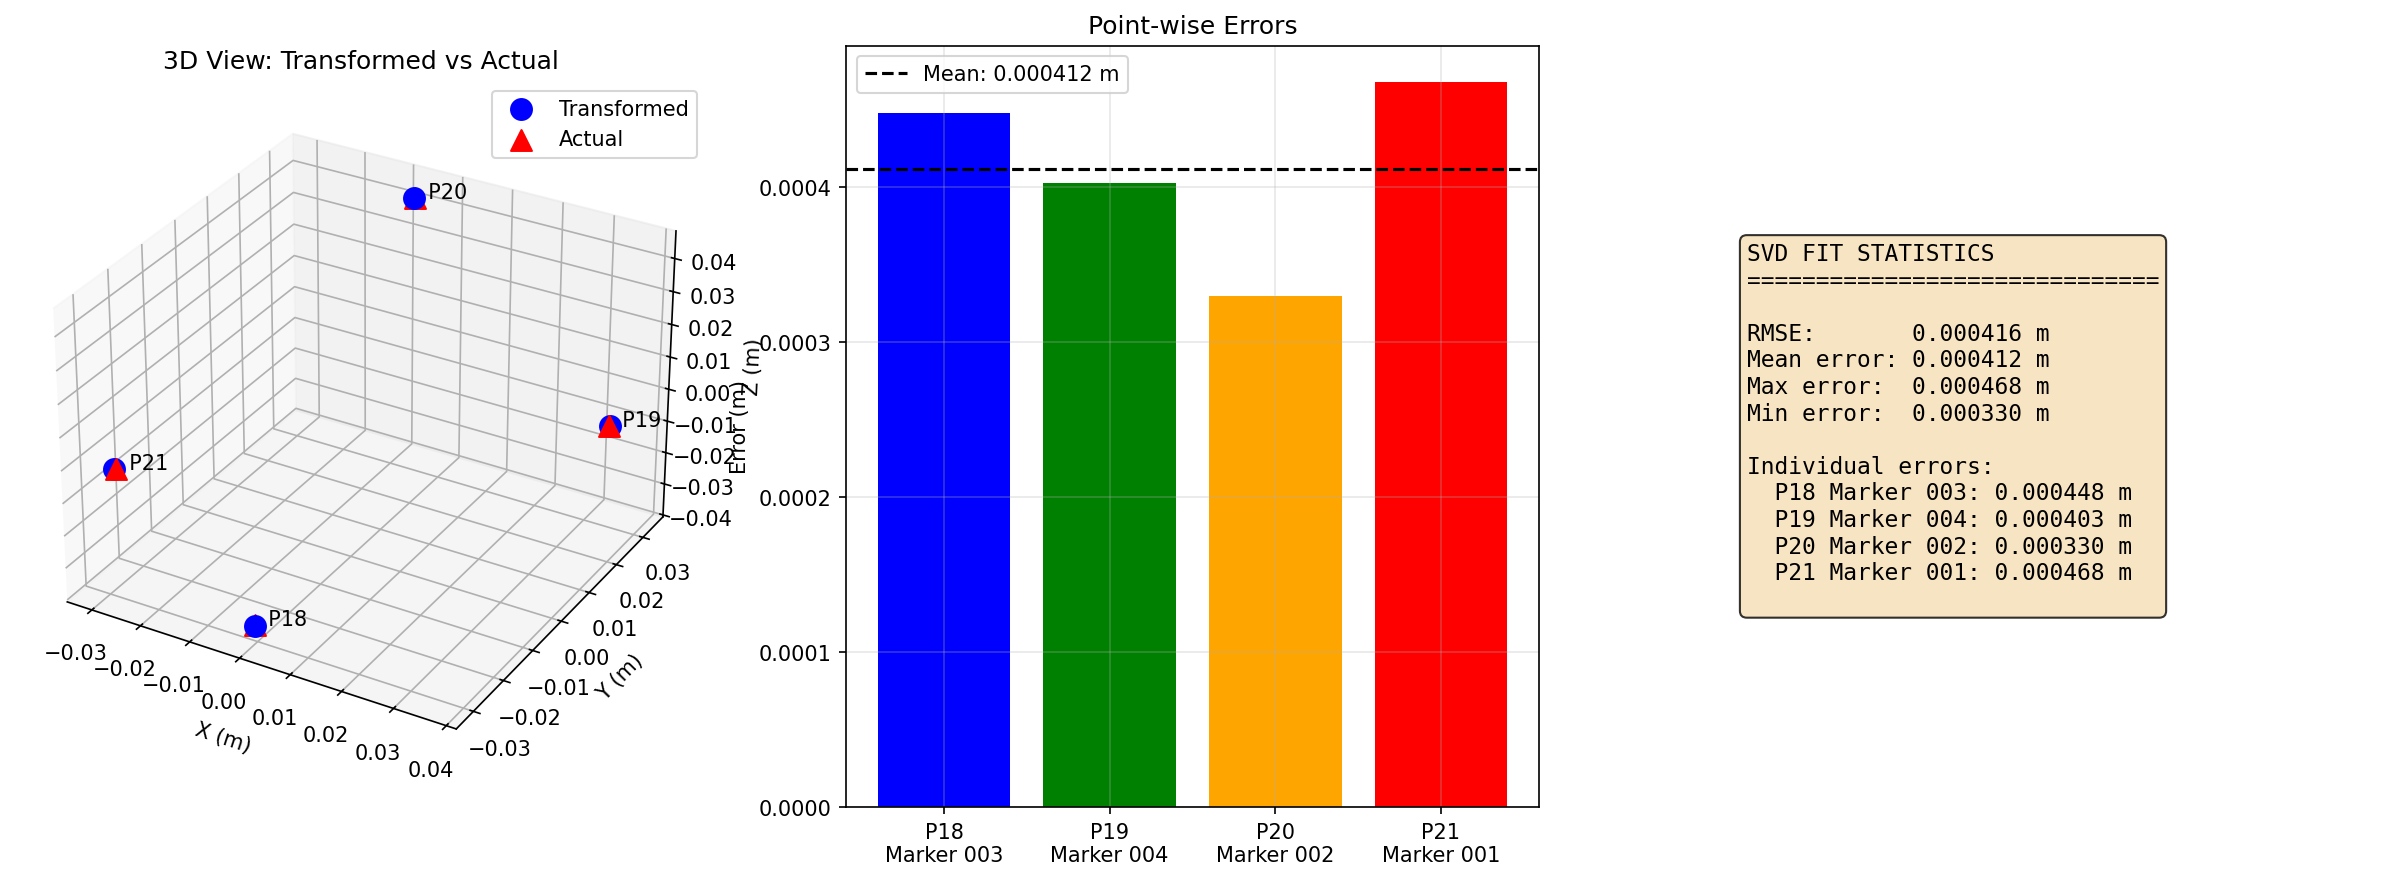
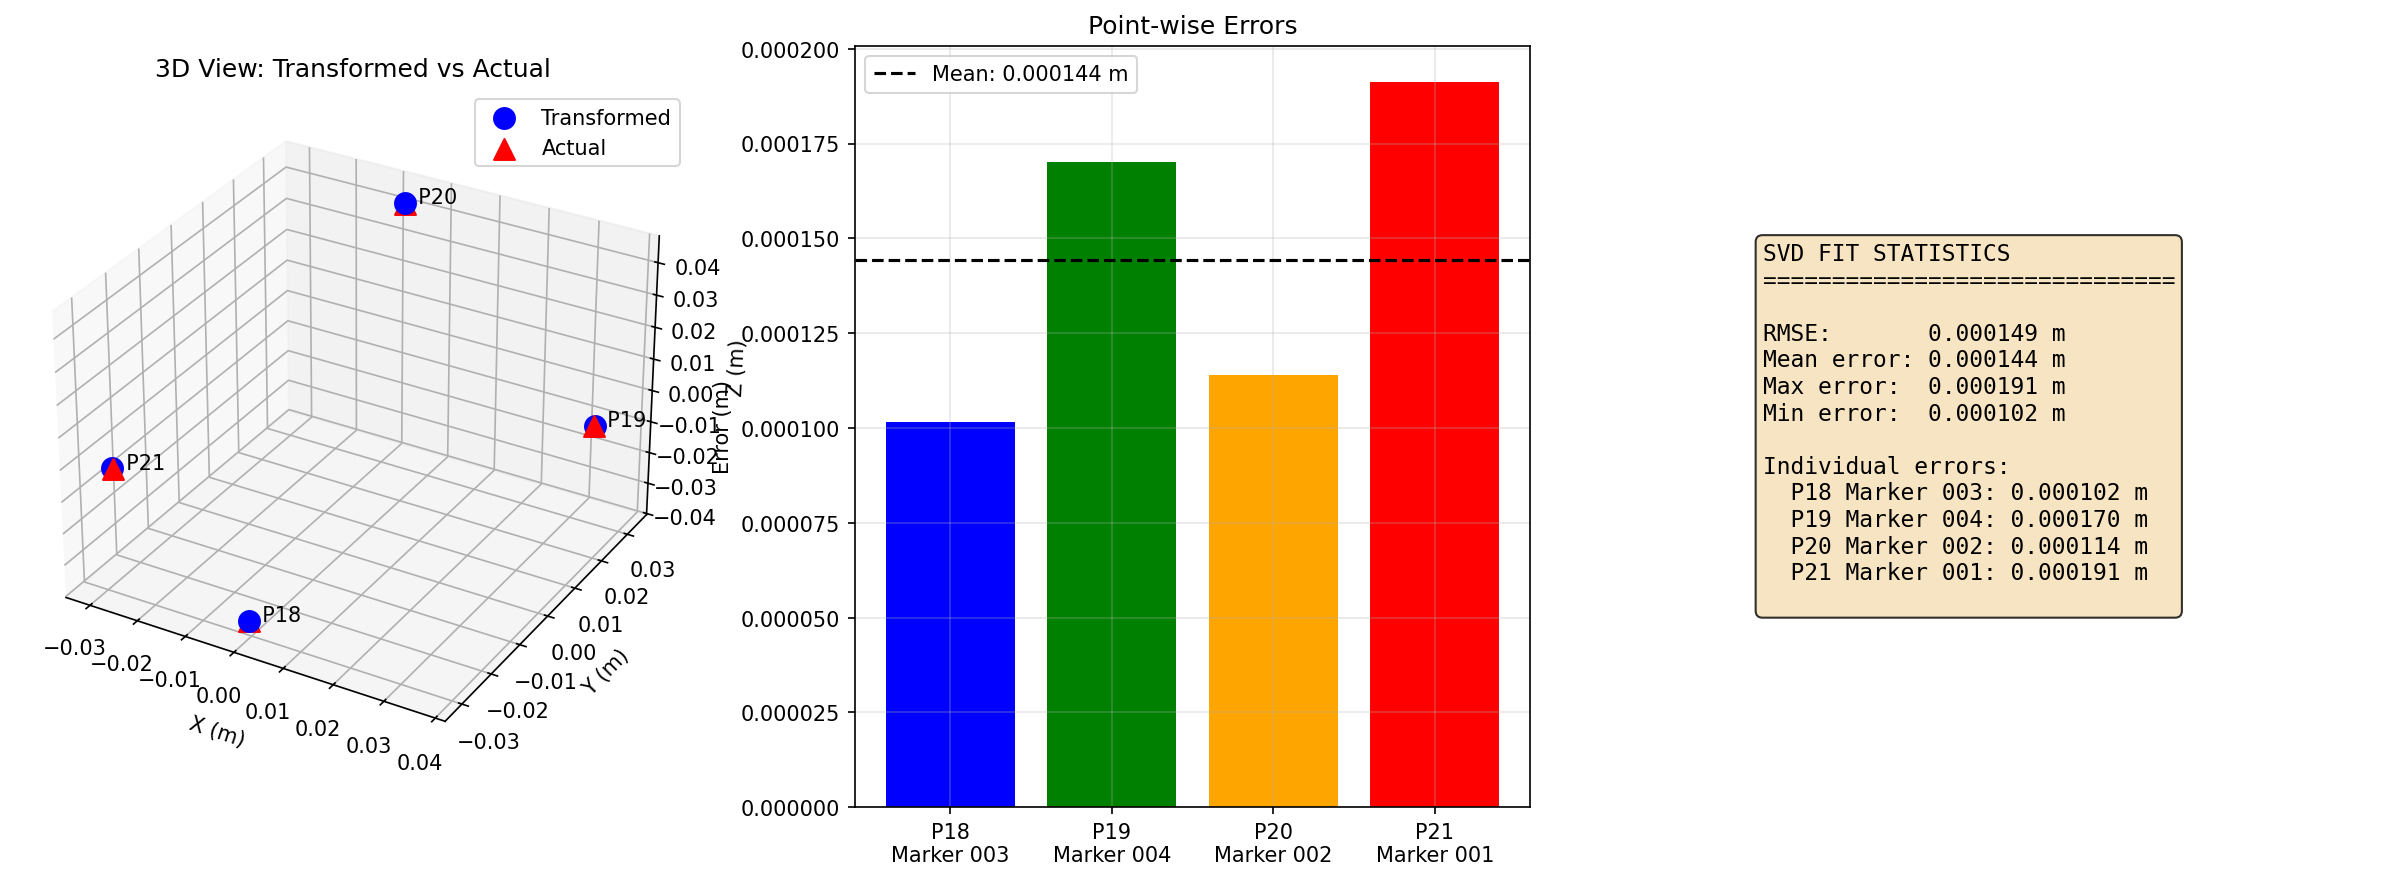
working

diff --git a/utils.py b/utils.py
@@ -38,6 +38,57 @@ def load_keypoints_from_json(json_path: Path) -> dict:
 
     return keypoints_dict
 
+def rotation_correction_ellipse_ccw(theta_degrees, ox, oy, rx, ry):
+    """
+    Generates a 3x3 homogeneous transformation matrix for a 2D counter-clockwise
+    rotation around a specified center point.
+
+    Args:
+        theta_degrees (float): The counter-clockwise rotation angle in degrees.
+        ox (float): The x-coordinate of the center of rotation (origin).
+        oy (float): The y-coordinate of the center of rotation (origin).
+
+    Returns:
+        np.ndarray: A 3x3 NumPy array representing the transformation matrix.
+    """
+    theta_rad = np.deg2rad(theta_degrees)
+    cos_theta = np.cos(theta_rad)
+    sin_theta = np.sin(theta_rad)
+
+    rotation_matrix = np.array([
+        [rx * cos_theta, -ry * sin_theta, (1 - cos_theta) * ox + sin_theta * oy],
+        [rx * sin_theta, ry * cos_theta, -sin_theta * ox + (1 - cos_theta) * oy],
+        [0, 0, 1]
+    ])
+
+    return rotation_matrix
+
+
+def rotation_correction_ellipse_cw(theta_degrees, ox, oy, rx, ry):
+    """
+    Generates a 3x3 homogeneous transformation matrix for a 2D clockwise
+    rotation around a specified center point.
+
+    Args:
+        theta_degrees (float): The clockwise rotation angle in degrees.
+        ox (float): The x-coordinate of the center of rotation (origin).
+        oy (float): The y-coordinate of the center of rotation (origin).
+
+    Returns:
+        np.ndarray: A 3x3 NumPy array representing the transformation matrix.
+    """
+    theta_rad = np.deg2rad(theta_degrees)
+    cos_theta = np.cos(theta_rad)
+    sin_theta = np.sin(theta_rad)
+
+    rotation_matrix = np.array([
+        [rx * cos_theta, ry * sin_theta, (1 - cos_theta) * ox - sin_theta * oy],
+        [-rx * sin_theta, ry * cos_theta, sin_theta * ox + (1 - cos_theta) * oy],
+        [0, 0, 1]
+    ])
+
+    return rotation_matrix
+
 
 def rotation_correction_ccw(theta_degrees, ox, oy):
     """
@@ -619,10 +670,10 @@ def draw_pyramid_points_and_get_coords(
     """
     # Check if all required rigid bodies are visible
     is_lens_visible = rb_data["Lens_RB"][frame_id].data.is_visible
-    is_cam_visible = rb_data["Cam_RB"][frame_id].data.is_visible
+    # is_cam_visible = rb_data["Cam_RB"][frame_id].data.is_visible
     is_pyramid_visible = rb_data["Pyramid_RB"][frame_id].data.is_visible
 
-    if not (is_cam_visible and is_lens_visible and is_pyramid_visible):
+    if not (is_lens_visible and is_pyramid_visible):
         # Draw visibility warnings
         if not is_pyramid_visible:
             cv2.putText(frame, "Pyramid not visible in OptiTrack",
@@ -630,9 +681,9 @@ def draw_pyramid_points_and_get_coords(
         if not is_lens_visible:
             cv2.putText(frame, "Lens not visible in OptiTrack",
                         (10, 130), cv2.FONT_HERSHEY_SIMPLEX, 0.7, (0, 0, 255), 2)
-        if not is_cam_visible:
-            cv2.putText(frame, "Camera not visible in OptiTrack",
-                        (10, 160), cv2.FONT_HERSHEY_SIMPLEX, 0.7, (0, 0, 255), 2)
+        # if not is_cam_visible:
+        #     cv2.putText(frame, "Camera not visible in OptiTrack",
+        #                 (10, 160), cv2.FONT_HERSHEY_SIMPLEX, 0.7, (0, 0, 255), 2)
         return None
 
     try:
@@ -732,10 +783,10 @@ def draw_pyramid_points(
     """
     # Check if all required rigid bodies are visible
     is_lens_visible = rb_data["Lens_RB"][frame_id].data.is_visible
-    is_cam_visible = rb_data["Cam_RB"][frame_id].data.is_visible
+    # is_cam_visible = rb_data["Cam_RB"][frame_id].data.is_visible
     is_pyramid_visible = rb_data["Pyramid_RB"][frame_id].data.is_visible
 
-    if not (is_cam_visible and is_lens_visible and is_pyramid_visible):
+    if not (is_lens_visible and is_pyramid_visible):
         # Draw visibility warnings
         if not is_pyramid_visible:
             cv2.putText(frame, "Pyramid not visible in OptiTrack",
@@ -743,9 +794,9 @@ def draw_pyramid_points(
         if not is_lens_visible:
             cv2.putText(frame, "Lens not visible in OptiTrack",
                         (10, 130), cv2.FONT_HERSHEY_SIMPLEX, 0.7, (0, 0, 255), 2)
-        if not is_cam_visible:
-            cv2.putText(frame, "Camera not visible in OptiTrack",
-                        (10, 160), cv2.FONT_HERSHEY_SIMPLEX, 0.7, (0, 0, 255), 2)
+        # if not is_cam_visible:
+        #     cv2.putText(frame, "Camera not visible in OptiTrack",
+        #                 (10, 160), cv2.FONT_HERSHEY_SIMPLEX, 0.7, (0, 0, 255), 2)
         return
 
     try:
@@ -979,11 +1030,11 @@ def draw_marker(
 
     if homog_marker_2d_cor is not None:
         is_lens_visible = rb_data["Lens_RB"][frame_id].data.is_visible
-        is_cam_visible = rb_data["Cam_RB"][frame_id].data.is_visible
+        # is_cam_visible = rb_data["Cam_RB"][frame_id].data.is_visible
         is_rb_visible = rb_data["Pen_RB"][frame_id].data.is_visible if pen_mode else rb_data["Calib_RB"][
             frame_id].data.is_visible
 
-        if is_cam_visible and is_lens_visible and is_rb_visible:
+        if is_lens_visible and is_rb_visible:
             try:
                 for i in range(homog_marker_2d_cor.shape[1]):
                     cv2.circle(frame, tuple(np.round(homog_marker_2d_cor[:2, i].flatten()).astype(int)), 5, (0, 0, 255),

diff --git a/main.py b/main.py
@@ -19,14 +19,31 @@ def main():
     Main workflow for loading experiment data and displaying video with overlays.
     """
     # 1. Configure the experiment
+    # config = ExperimentConfig(
+    #     base_data_dir=Path("/mnt/areas_nas/data/AREAS data/Knee/SLAM/bdd_SLAM/areas_2025-11-20/knee_pyramid/water"),
+    #     experiment_name="pyramid",
+    #     camera_model_type="circle",
+    #     data_prefix="pyramid_0",
+    #     angle_detector_type="notch",
+    #     display_type="pyramid"  # Options: "calib", "pen", "pyramid"
+    # )
+    # config = ExperimentConfig(
+    #     base_data_dir=Path("/mnt/areas_nas/data/AREAS data/Knee/SLAM/bdd_SLAM/areas_2025-12-23/knee_water/pyramid"),
+    #     experiment_name="pyramid",
+    #     camera_model_type="circle",
+    #     data_prefix="theta_0",
+    #     angle_detector_type="notch",
+    #     display_type="pyramid"  # Options: "calib", "pen", "pyramid"
+    # )
     config = ExperimentConfig(
-        base_data_dir=Path("/mnt/areas_nas/data/AREAS data/Knee/SLAM/bdd_SLAM/areas_2025-11-20/knee_pyramid/water"),
-        experiment_name="pyramid",
+        base_data_dir=Path("/mnt/areas_nas/data/AREAS data/Knee/SLAM/bdd_SLAM/areas_2025-12-30/knee_pyramid/water"),
+        experiment_name="theta",
         camera_model_type="circle",
-        data_prefix="pyramid_0",
+        data_prefix="theta_1",
         angle_detector_type="notch",
         display_type="pyramid"  # Options: "calib", "pen", "pyramid"
     )
+
 
     # 2. Set up and validate all required file paths
     paths = ExperimentPaths(config)
@@ -60,7 +77,7 @@ def main():
         # Define path to pyramid JSON file
         pyramid_json_path = Path(config.base_data_dir) / "ModelMire3DSLAM3.json"
         vectors_log_path = Path(config.base_data_dir) / "camera_models/vectors.log"
-        keypoints_json_path = Path(config.base_data_dir) / "pyramid_ppoints/pyramid_points_coordinates.json"
+        # keypoints_json_path = Path(config.base_data_dir) / "pyramid_ppoints/pyramid_points_coordinates.json"
         metric_output = Path(config.base_data_dir) / "output_result_metrics.json"
 
         frame=0
@@ -74,16 +91,16 @@ def main():
             rb_data=rb_data,
             calib_data=calib_data,
             pyramid_json_path=pyramid_json_path,
-            keypoints_json_path=keypoints_json_path,
+            # keypoints_json_path=keypoints_json_path,
             use_notch=(config.angle_detector_type == "notch"),
             R_const_to_opt=rot_constellation_opti,
             vectors_log_path=vectors_log_path,  # Load initial theta from file
             verify_transformation=True,
-            compute_metrics=True,
-            enable_realtime_plot=True,
-            metrics_output_path=metric_output,
-            error_unit="mm",
-            reference_frame="optitrack"
+            # compute_metrics=True,
+            # enable_realtime_plot=True,
+            # metrics_output_path=metric_output,
+            # error_unit="mm",
+            # reference_frame="optitrack"
         )
     else:
         # Display calibration or pen markers

diff --git a/verification_script.py b/verification_script.py
@@ -158,14 +158,16 @@ def verify_pyramid_transformation(
     print("-" * 70)
     
     is_lens_visible = rb_data["Lens_RB"][frame_id].data.is_visible
-    is_cam_visible = rb_data["Cam_RB"][frame_id].data.is_visible
+    # is_cam_visible = rb_data["Cam_RB"][frame_id].data.is_visible
     is_pyramid_visible = rb_data["Pyramid_RB"][frame_id].data.is_visible
     
     print(f"Lens_RB visible:    {is_lens_visible}")
-    print(f"Cam_RB visible:     {is_cam_visible}")
+    # print(f"Cam_RB visible:     {is_cam_visible}")
     print(f"Pyramid_RB visible: {is_pyramid_visible}")
     
-    if is_lens_visible and is_cam_visible and is_pyramid_visible:
+    # if is_lens_visible and is_cam_visible and is_pyramid_visible:
+    #     print("✓ PASSED: All rigid bodies visible")
+    if is_lens_visible and is_pyramid_visible:
         print("✓ PASSED: All rigid bodies visible")
     else:
         print("❌ FAILED: Some rigid bodies not visible")
